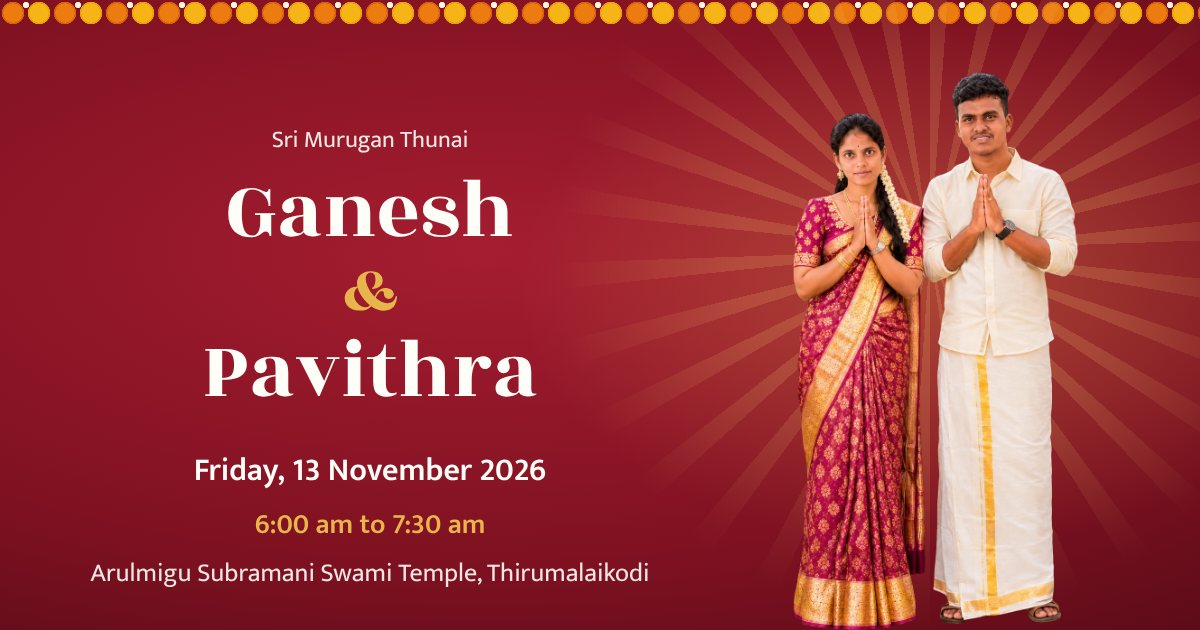
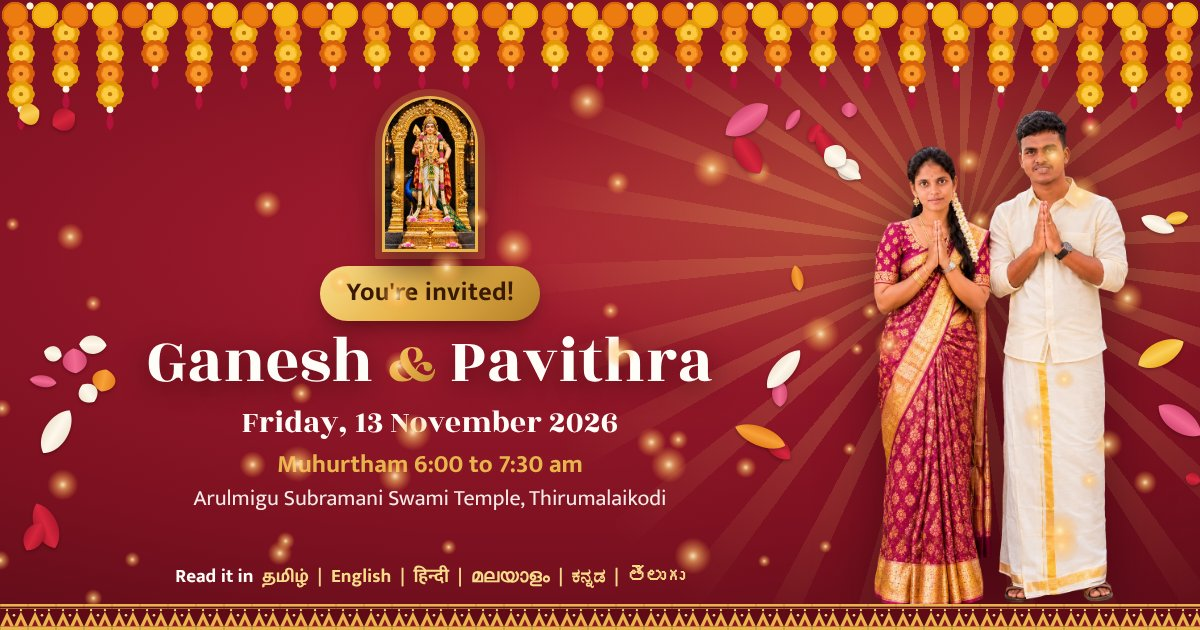
Wedding page: new link preview picture and title
Claude-Session: https://claude.ai/code/session_01L1FiR57qDTqUPrq1MnduD6

diff --git a/wedding/index.html b/wedding/index.html
@@ -8,13 +8,13 @@
      EDIT 1 OF 2: how the link looks when it's shared on WhatsApp
      Change the names, date and place in these four lines.
      ===================================================================== -->
-<title>Ganesh & Pavithra's wedding invitation</title>
+<title>You're invited: Ganesh & Pavithra's wedding</title>
 <meta name="description" content="Friday, 13 November 2026, 6:00 to 7:30 am at Arulmigu Subramani Swami Temple, Thirumalaikodi, Vellore.">
-<meta property="og:title" content="Ganesh & Pavithra's wedding invitation">
-<meta property="og:description" content="Friday, 13 November 2026, 6:00 to 7:30 am at Arulmigu Subramani Swami Temple, Thirumalaikodi, Vellore.">
+<meta property="og:title" content="You're invited: Ganesh & Pavithra's wedding">
+<meta property="og:description" content="Friday, 13 November 2026, 6:00 to 7:30 am at Arulmigu Subramani Swami Temple, Thirumalaikodi. Tap to open your invitation in Tamil, English, Hindi, Malayalam, Kannada or Telugu.">
 <meta property="og:type" content="website">
 <!-- Preview picture shown when the link is shared on WhatsApp -->
-<meta property="og:image" content="https://jeevanandhamsivasankar.github.io/wedding/og.jpg?v=2">
+<meta property="og:image" content="https://jeevanandhamsivasankar.github.io/wedding/og.jpg?v=3">
 <meta property="og:image:width" content="1200">
 <meta property="og:image:height" content="630">
 <meta property="og:url" content="https://jeevanandhamsivasankar.github.io/wedding/">
